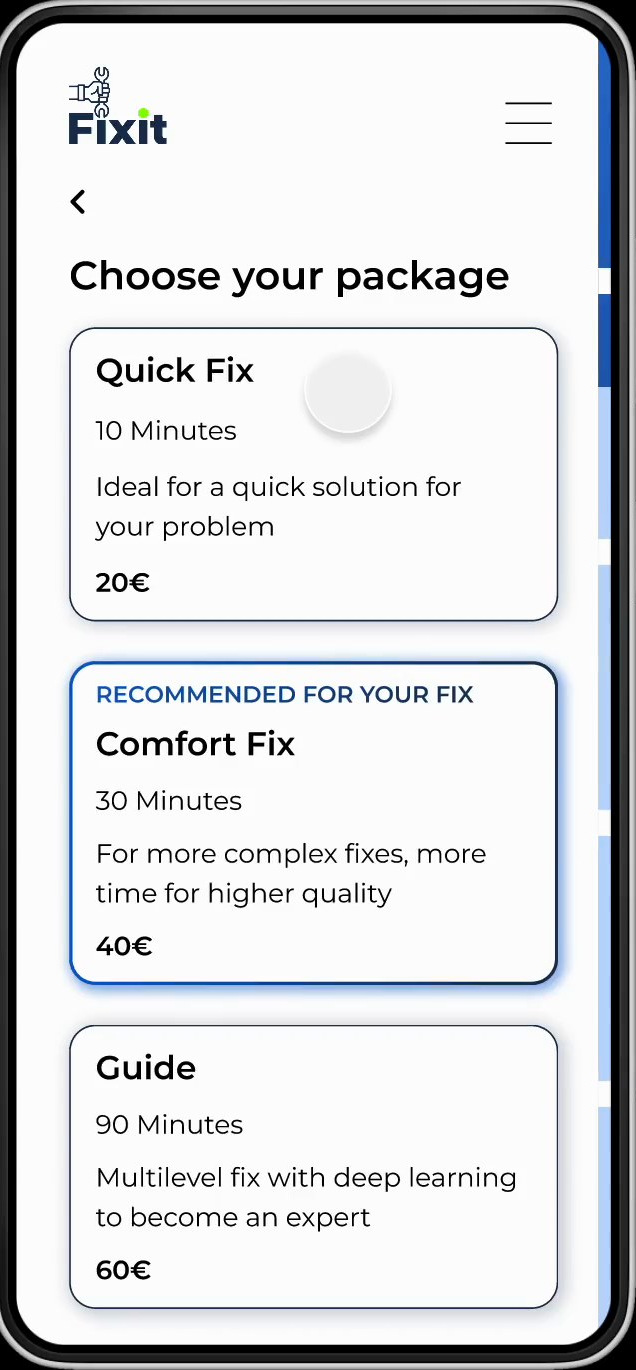
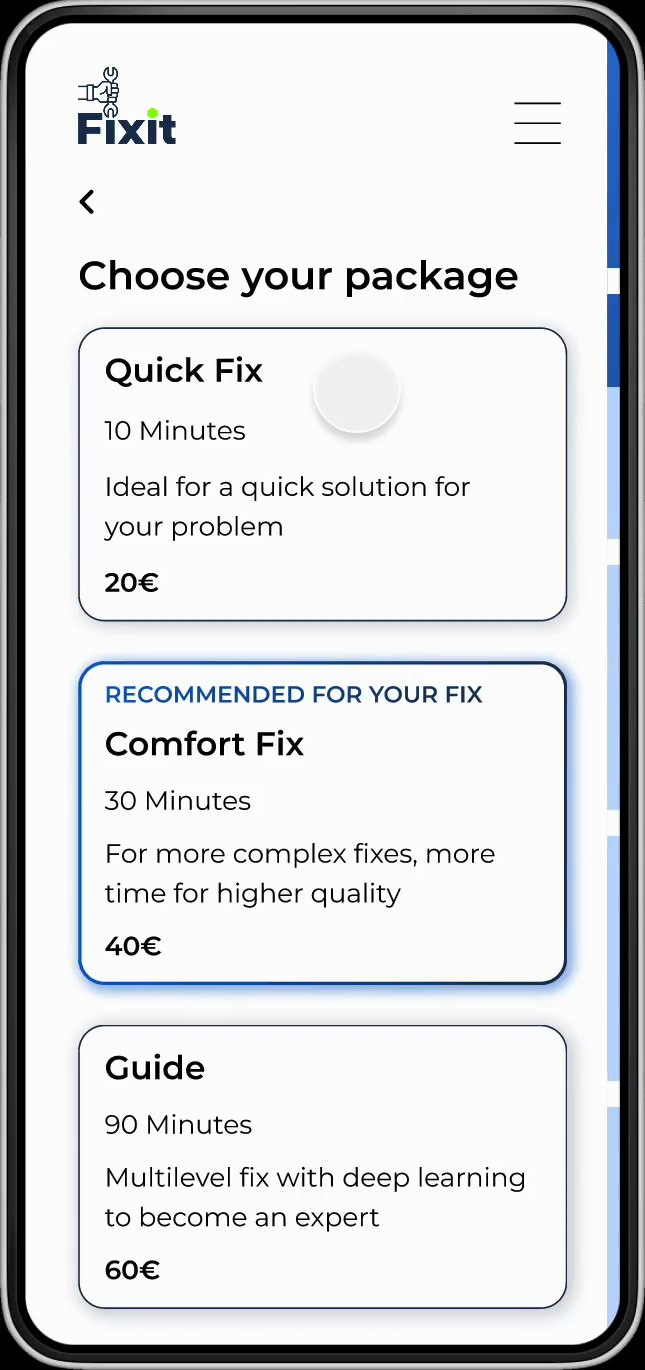
Fixit: device shots symmetric, radius per corner
The four stills from the prototype recording were cut 9 px short on the left (silver
rim, line, 1 px frame). Restored from their own mirrored right edge; Warten recut from
the original without squeezing. All five 645 x 1370 with the rim on every side.
Radius measured on the phone (68 px top, 75 px bottom) plus 2 px, as shares of width
and height.

diff --git a/src/styles/site.css b/src/styles/site.css
@@ -357,10 +357,10 @@
   .block:last-child { padding-bottom: 0; }
   .block figure { margin: 0; }
   .block img, .block video { display: block; width: 100%; height: auto; border: 1px solid var(--color-rule); background: var(--color-neutral); }
-  /* Device shots (Fixit): cropped to the phone body (side buttons cut off), but the JPG has no alpha, so its corners stay
-     black outside the phone. The radius is 9.5 % of the width (the phone's own corner is 9 %), the vertical part is
-     scaled by 636/1370 so the corner stays circular. */
-  .block img.device { border-radius: 9.5% / 4.41%; }
+  /* Device shots (Fixit, 645 x 1370): cropped to the phone body (side buttons cut off), but the JPG has no alpha, so its
+     corners stay black outside the phone. The phone's corners measure 68 px at the top and 75 px at the bottom; the radius
+     takes 2 px more (70 / 77 px), as a share of width and height so the corner stays circular at every size. */
+  .block img.device { border-radius: 10.85% 10.85% 11.94% 11.94% / 5.11% 5.11% 5.62% 5.62%; }
   .block figcaption { margin-top: var(--space-2xs); font-size: 13px; line-height: 1.45; color: var(--color-muted); }
   .decision { display: grid; grid-template-columns: 5fr 6fr; column-gap: var(--space-xl); align-items: start; }
   .dhead { position: sticky; top: 112px; }
